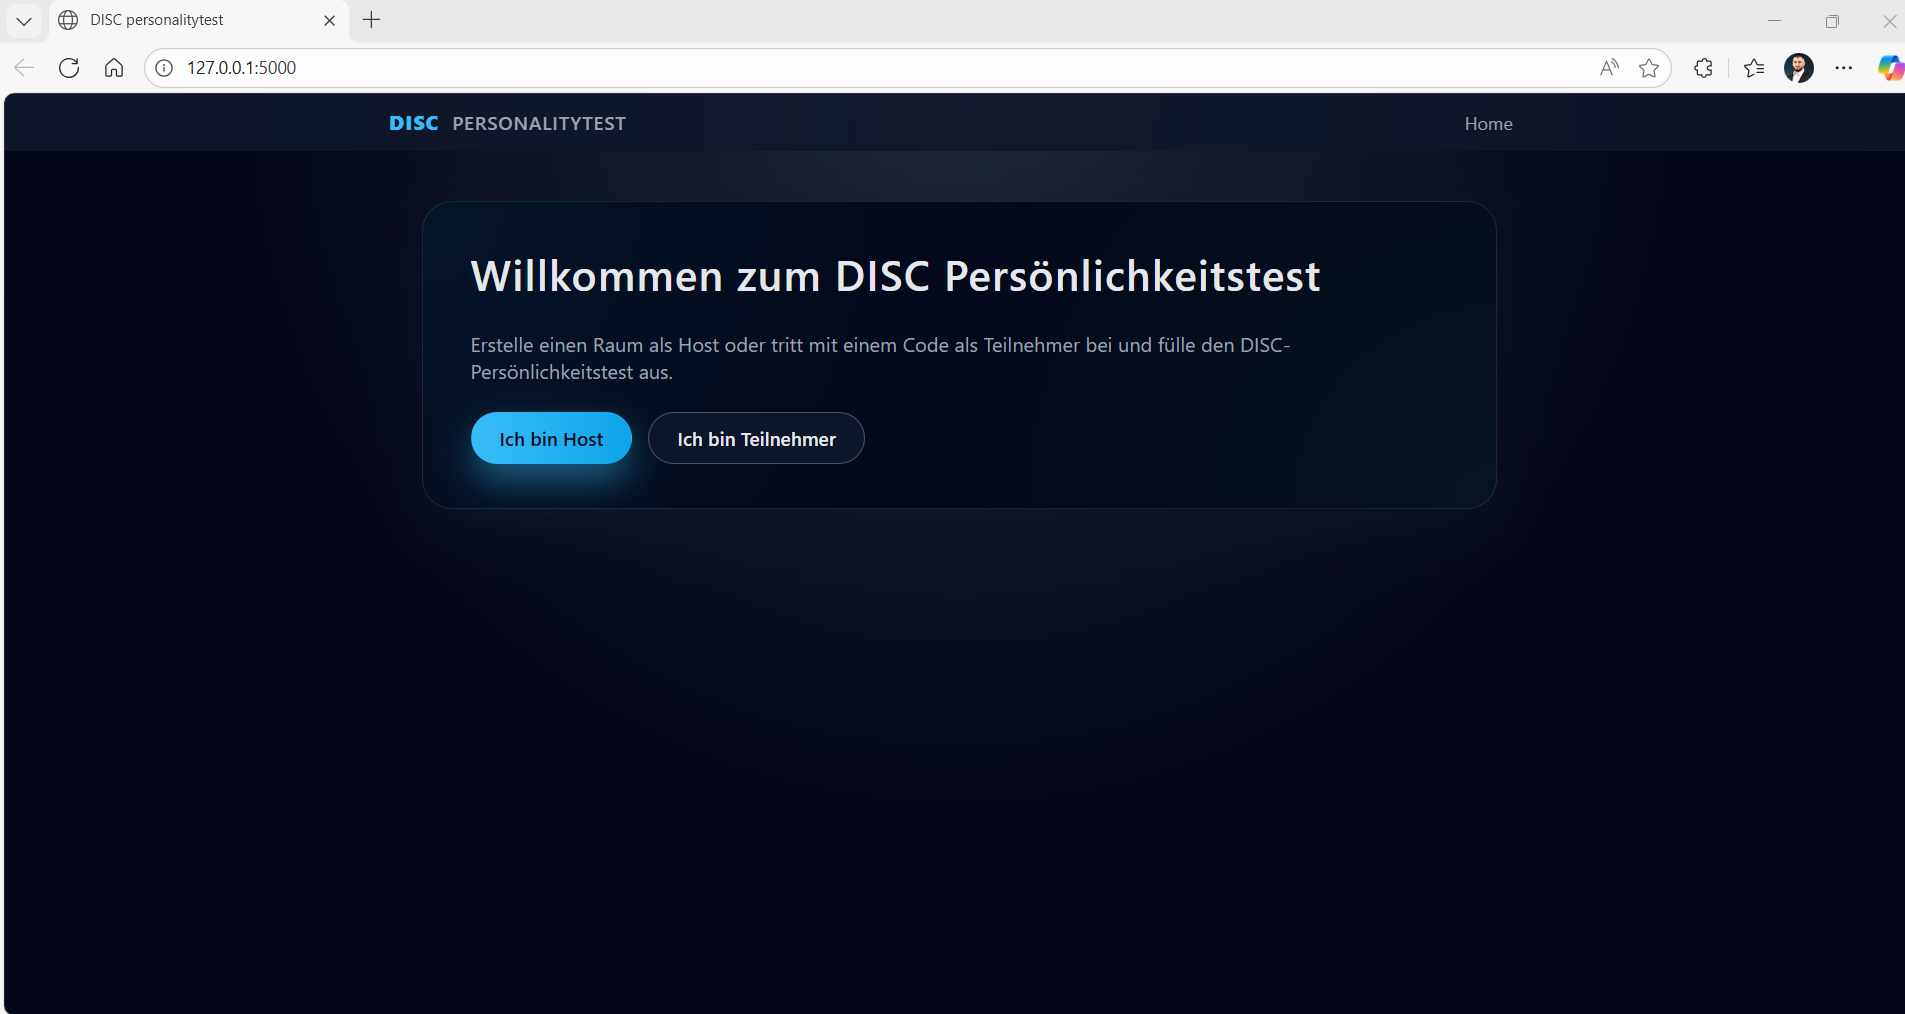
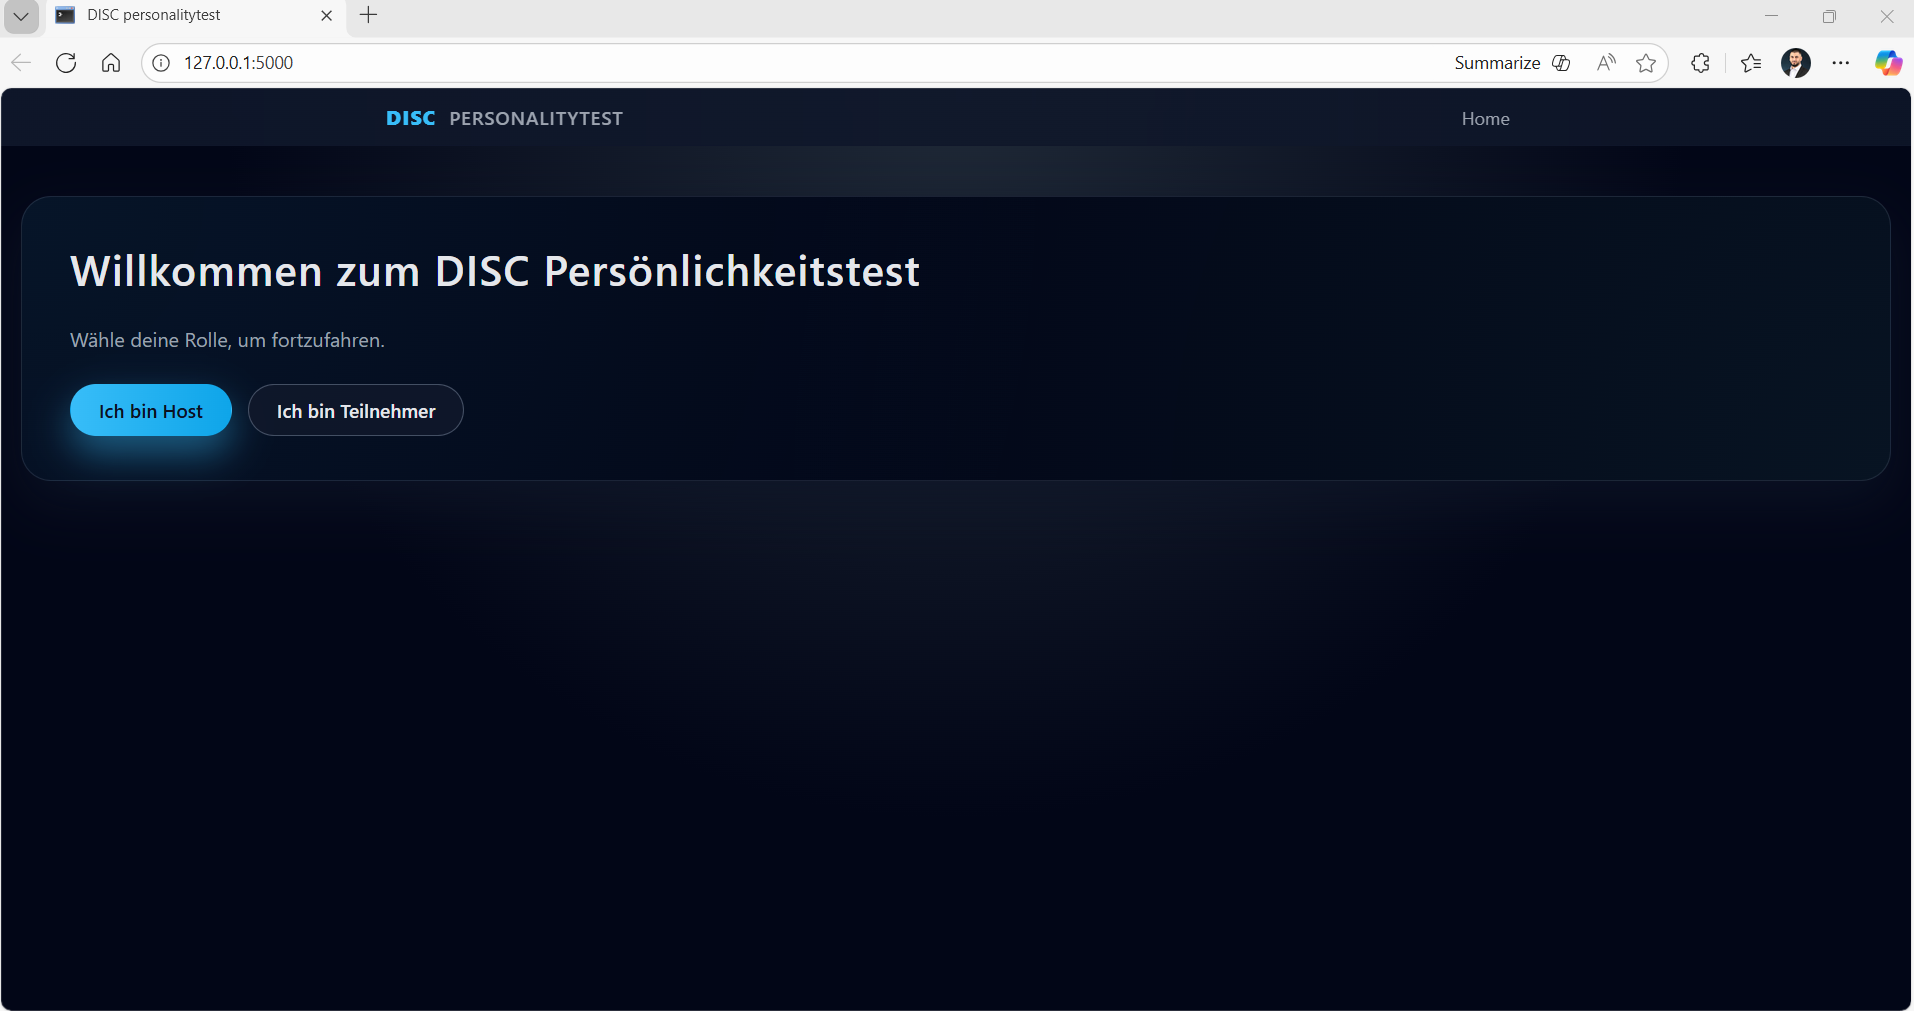
Update reference documentation and image assets for workshop features

Changed region(s): [[0.0, 0.2453, 0.6814, 0.4906], [0.0, 0.0, 1.0, 1.0], [0.0, 0.9812, 0.031, 1.0]]

diff --git a/docs/technical-docs/reference.md b/docs/technical-docs/reference.md
@@ -10,12 +10,6 @@ nav_order: 3
 {: .no_toc }
 # Reference documentation
 
-{: .attention }
-> This page collects internal functions, routes with their functions, and APIs (if any).
-> 
-> See [Uber](https://developer.uber.com/docs/drivers/references/api) or [PayPal](https://developer.paypal.com/api/rest/) for exemplary high-quality API reference documentation.
->
-> You may delete this `attention` box.
 
 <details open markdown="block">
 {: .text-delta }
@@ -24,62 +18,129 @@ nav_order: 3
 {: toc }
 </details>
 
-## [Section / module]
+## Home
 
-### `function_definition()`
-
-**Route:** `/route/`
-
-**Methods:** `POST` `GET` `PATCH` `PUT` `DELETE`
-
-**Purpose:** [Short explanation of what the function does and why]
-
-**Sample output:**
-
-[Show an image, string output, or similar illustration -- or write NONE if function generates no output]
-
----
-
-## [Example, delete this section] Show to-do lists
-
-### `get_lists()`
-
-**Route:** `/lists/`
+**Route:** `/`
 
 **Methods:** `GET`
 
-**Purpose:** Show all to-do lists.
+**Purpose:** Homescreen; der Nutzer gibt an ob er Host oder Teilnehmer ist
 
 **Sample output:**
 
-![get_lists() sample](../assets/images/fswd-intro_00.png)
-
+![index](../assets/images/index.png)
 ---
+# Host-Screens
 
-### `get_list_todos(list_id)`
 
-**Route:** `/lists/<int:list_id>`
+## Host Login
+
+**Route:** `/login`
 
 **Methods:** `GET`
 
-**Purpose:** Retrieve all to-do items of to-do list with ID `list_id` from database and present to user.
+**Purpose:** Login für den Host; Weiterleitung auf Registrierung falls kein Account aneglegt
 
 **Sample output:**
 
-![get_list_todos() sample](../assets/images/fswd-intro_02.png)
+![host_login](../assets/images/host_login.png)
 
 ---
 
-## [Example, delete this section] Insert sample data
+## Host Register
 
-### `run_insert_sample()`
-
-**Route:** `/insert/sample`
+**Route:** `/register`
 
 **Methods:** `GET`
 
-**Purpose:** Flush the database and insert sample data set
+**Purpose:** Registrierung für einen neuen Host Account
 
 **Sample output:**
 
-Browser shows: `Database flushed and populated with some sample data.`
+![host_register](../assets/images/host_regsiter.png)
+
+---
+
+## Host Dashboard
+
+**Route:** `/dashboard`
+
+**Methods:** `GET`
+
+**Purpose:** Liste mit allen erstellten Workshops; Weiterleiten zum erstellen eines neuen
+
+**Sample output:** ![host_dashboard](../assets/images/host_dashboard)
+
+---
+
+## Create Workshop
+
+**Route:** `/workshops/new`
+
+**Methods:** `GET`
+
+**Purpose:** Registrierung für einen neuen Host Account
+
+**Sample output:**
+
+![create_workshop](../assets/images/create_workshop.png)
+
+---
+
+## Overview Workshop
+
+**Route:** `/workshops/<code>/new`
+
+**Methods:** `GET`
+
+**Purpose:** Der Host hat eine Übersicht über den erstellten Workshop und sieht: code, status, Team Ergebnisse und die Teilnehmer
+
+**Sample output:**
+
+![create_workshop](../assets/images/create_workshop.png)
+
+---
+
+# Teilnehmer-Screens
+
+## Join Workshop
+
+**Route:** `/join`
+
+**Methods:** `GET`
+
+**Purpose:** Der Teilnehmer gibt seinen Namen und den Workshop Code ein
+
+**Sample output:**
+
+![join](../assets/images/join.png)
+
+---
+
+## Test
+
+**Route:** `/workshops/<code>/test`
+
+**Methods:** `GET`
+
+**Purpose:** Der Teilnehmer beantwortet die Fragen(1(trifft gar nicht zu) bis 5(trifft voll und gaz zu))
+
+**Sample output:**
+
+![user_test](../assets/images/user_test.png)
+
+---
+
+## Ergebnisse
+
+**Route:** `/workshops/<code>/test`
+
+**Methods:** `GET`
+
+**Purpose:** Der Teilnehmer sieht seine eigenen Ergebnisse, die Ergebnisse des Teams und einen Informationstext zu den unterschiedlichen Typen
+
+**Sample output:**
+
+![results](../assets/images/results.png)
+![results2](../assets/images/results2.png)
+
